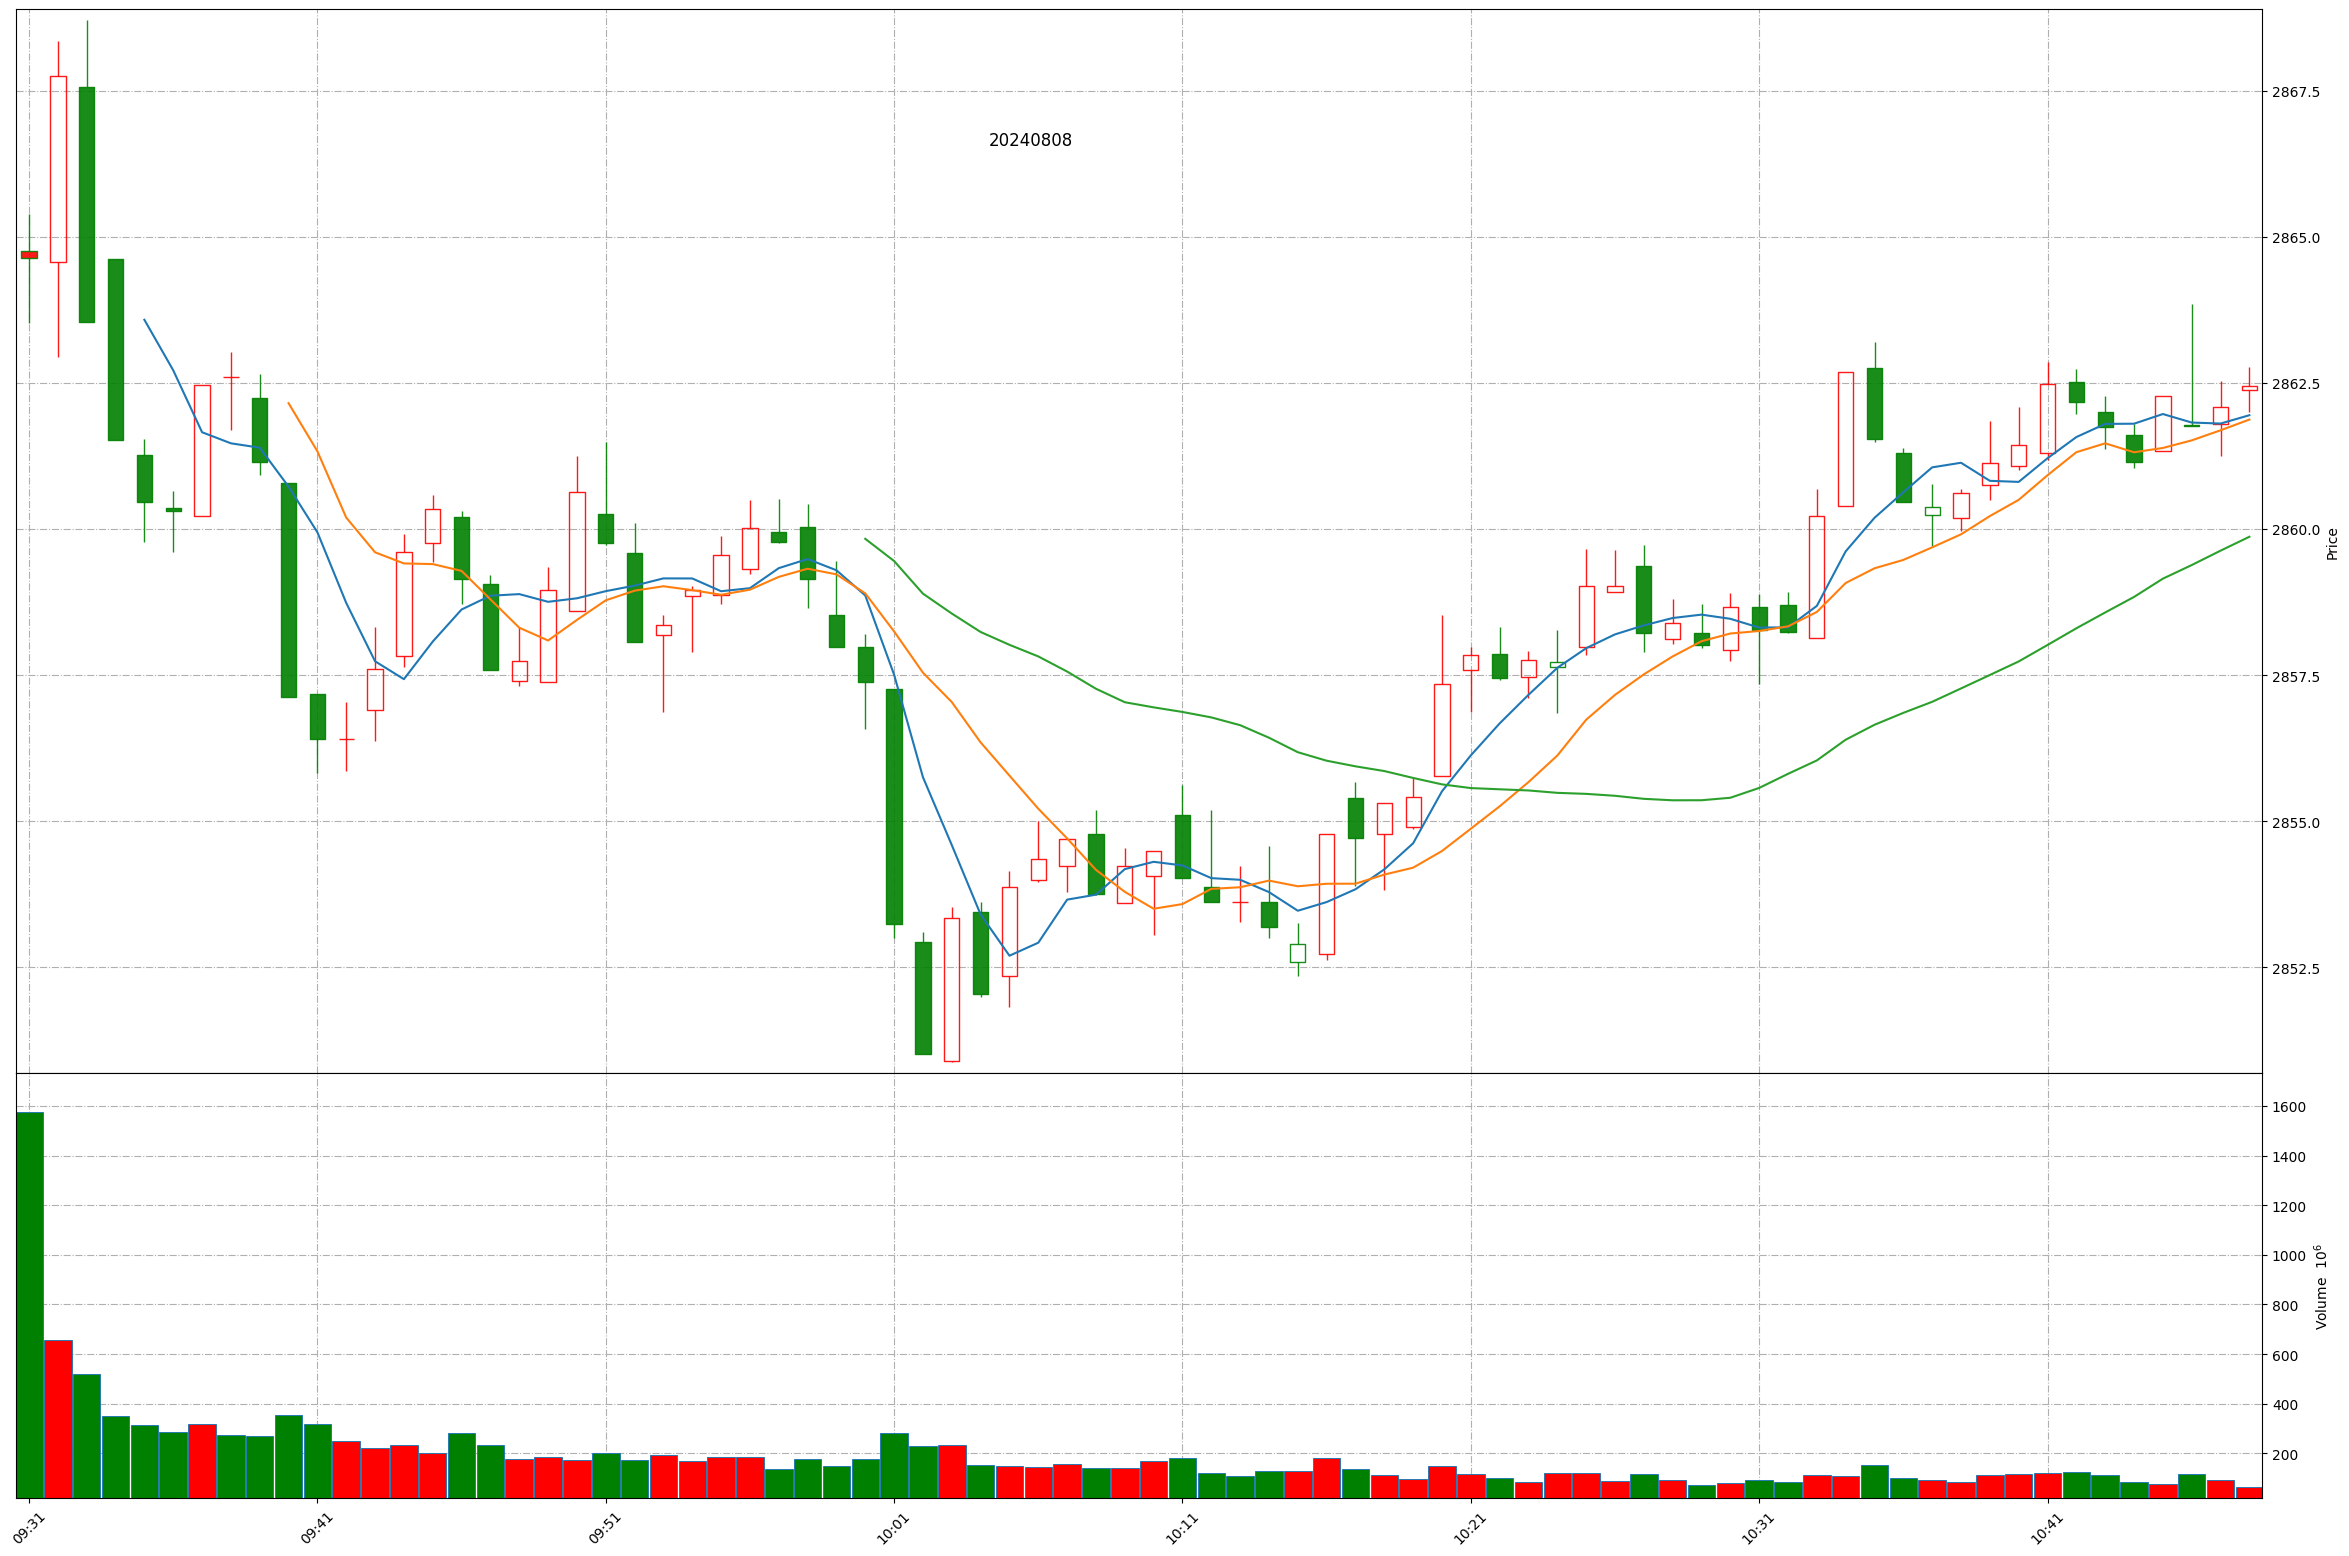
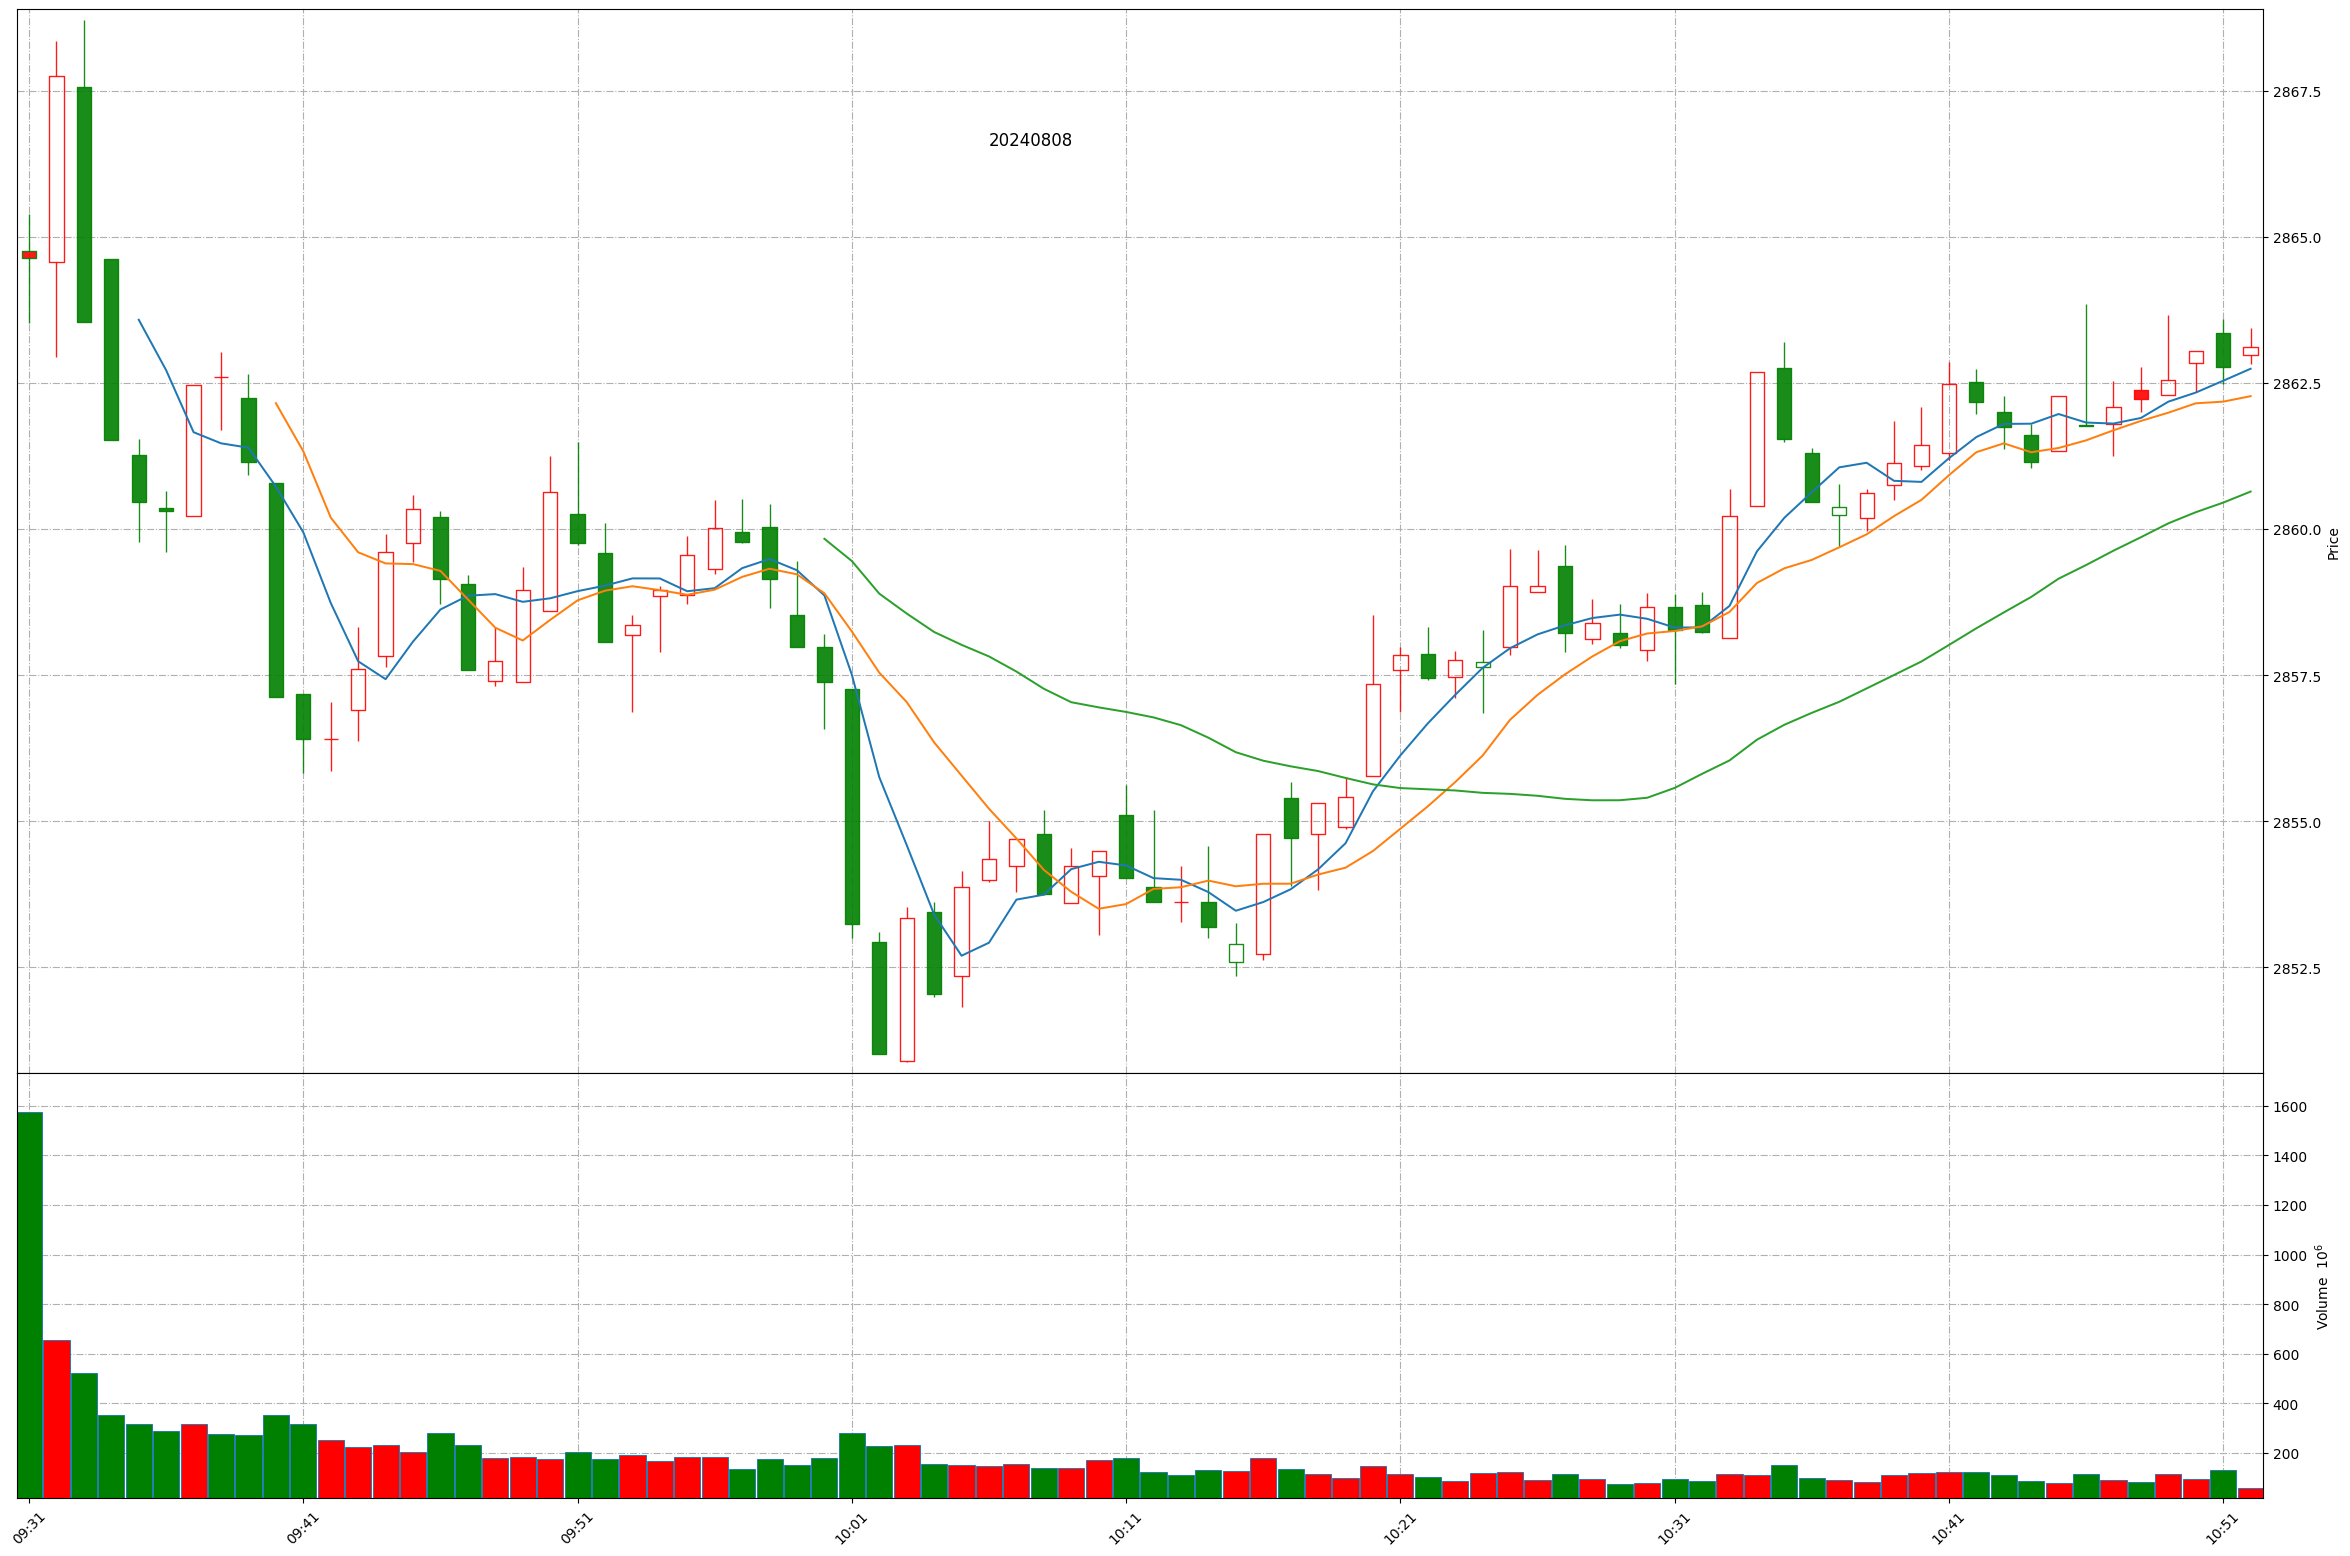
Github action update at 2024-08-08 10:51:59.

Changed region(s): [[0.0, 0.0308, 0.9634, 0.6787], [0.0311, 0.8946, 0.9634, 0.9871], [0.4662, 0.4319, 0.4972, 0.4627]]

diff --git a/README.md b/README.md
@@ -1,11 +1,11 @@
 
 # Daily-A-share-market-quotes 每日 A 股指数（5min 更新）- 20240808
 
-### 上证指数 20240808 10:48
+### 上证指数 20240808 10:51
 ![](./fig/2024/8/20240808-sh000001.png)
 
-### 深证成指 20240808 10:48
+### 深证成指 20240808 10:51
 ![](./fig/2024/8/20240808-sz399001.png)
 
-### 北证50 20240808 10:48
+### 北证50 20240808 10:51
 ![](./fig/2024/8/20240808-bj899050.png)
